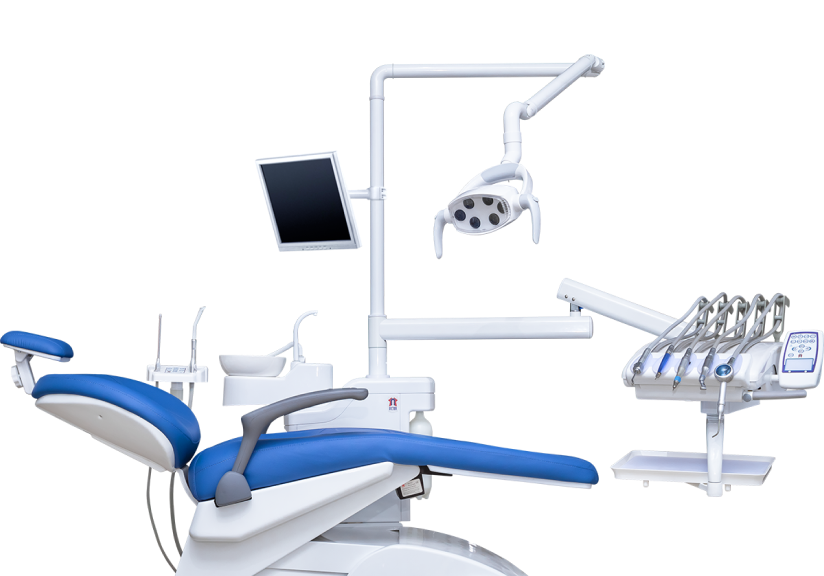
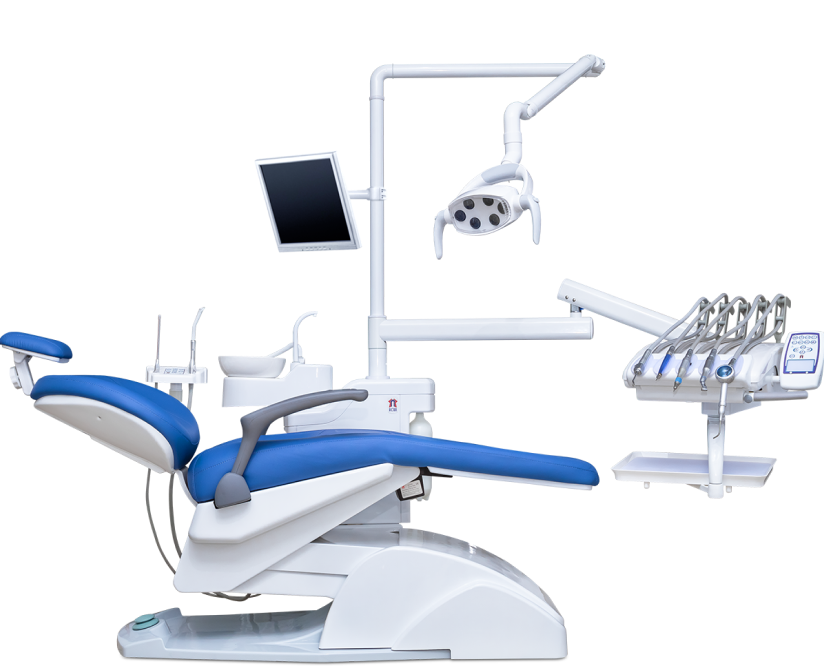
equipment mobile

diff --git a/src/styles/_equipment-and-materials.css b/src/styles/_equipment-and-materials.css
@@ -1,12 +1,13 @@
 .equipment-and-materials {
+    margin-top: 27px;
     min-height: 576px;
     padding-top: 80px;
     padding-bottom: 80px;
     background-color: #63BFCB;
     background-image: url("../images/equipment-and-materials@1x.png"), linear-gradient(-99.401deg, #B3E0E6 0%, #0096AA 100%);
-    background-size: 824px 576px, auto;
+    background-size: 824px 668px, auto;
     background-repeat: no-repeat, repeat;
-    background-position: calc(50% + 444px) 27px, center top;
+    background-position: calc(50% + 444px) top, center top;
 }
 
 @media (min-resolution: 1.5dppx) {
@@ -37,3 +38,59 @@
             line-height: 26px;
             color: #FFFFFF;
         }
+
+
+
+@media (768px <= width < 1200px) {
+
+    .equipment-and-materials {
+        margin-top: 60px;
+        min-height: 400px;
+        padding-top: 40px;
+        padding-bottom: 40px;
+        background-size: 540px auto, auto;
+        background-position: calc(50% + 300px) 27px, center top;
+    }
+        .equipment-and-materials__container {
+
+        }
+            .equipment-and-materials__heading {
+                max-width: 600px;
+                font-size: 40px;
+                line-height: 46px;
+            }
+
+            .equipment-and-materials__description {
+                margin-top: 16px;
+                max-width: 540px;
+                font-size: 18px;
+                line-height: 22px;
+            }
+}
+
+
+@media (width < 768px) {
+
+    .equipment-and-materials {
+        /*margin-top: 60px;*/
+        /*min-height: 400px;*/
+        padding-top: 40px;
+        padding-bottom: 298px;
+        background-size: 335px auto, auto;
+        background-position: center bottom 39px, center top;
+    }
+        .equipment-and-materials__container {
+
+        }
+            .equipment-and-materials__heading {
+                font-size: 40px;
+                line-height: 46px;
+            }
+
+            .equipment-and-materials__description {
+                margin-top: 16px;
+                /*max-width: 600px;*/
+                font-size: 18px;
+                line-height: 22px;
+            }
+}

diff --git a/src/equipment.html b/src/equipment.html
@@ -352,7 +352,7 @@
             <div class="equipment-and-materials">
                 <div class="equipment-and-materials__container wrapper wrapper--wide">
                     <h1 class="equipment-and-materials__heading">
-                        Оборудование и материалы
+                        Оборудование и&nbsp;материалы
                     </h1>
                     <p class="equipment-and-materials__description">
                         Во время оснащения клиники мы делали упор на современную технику для лечения зубов и ставили задачу оказывать услуги на самом высоком уровне. Каждый кабинет стоматолога в клинике имеет собственный набор функциональных установок, инструментов и материалов.
